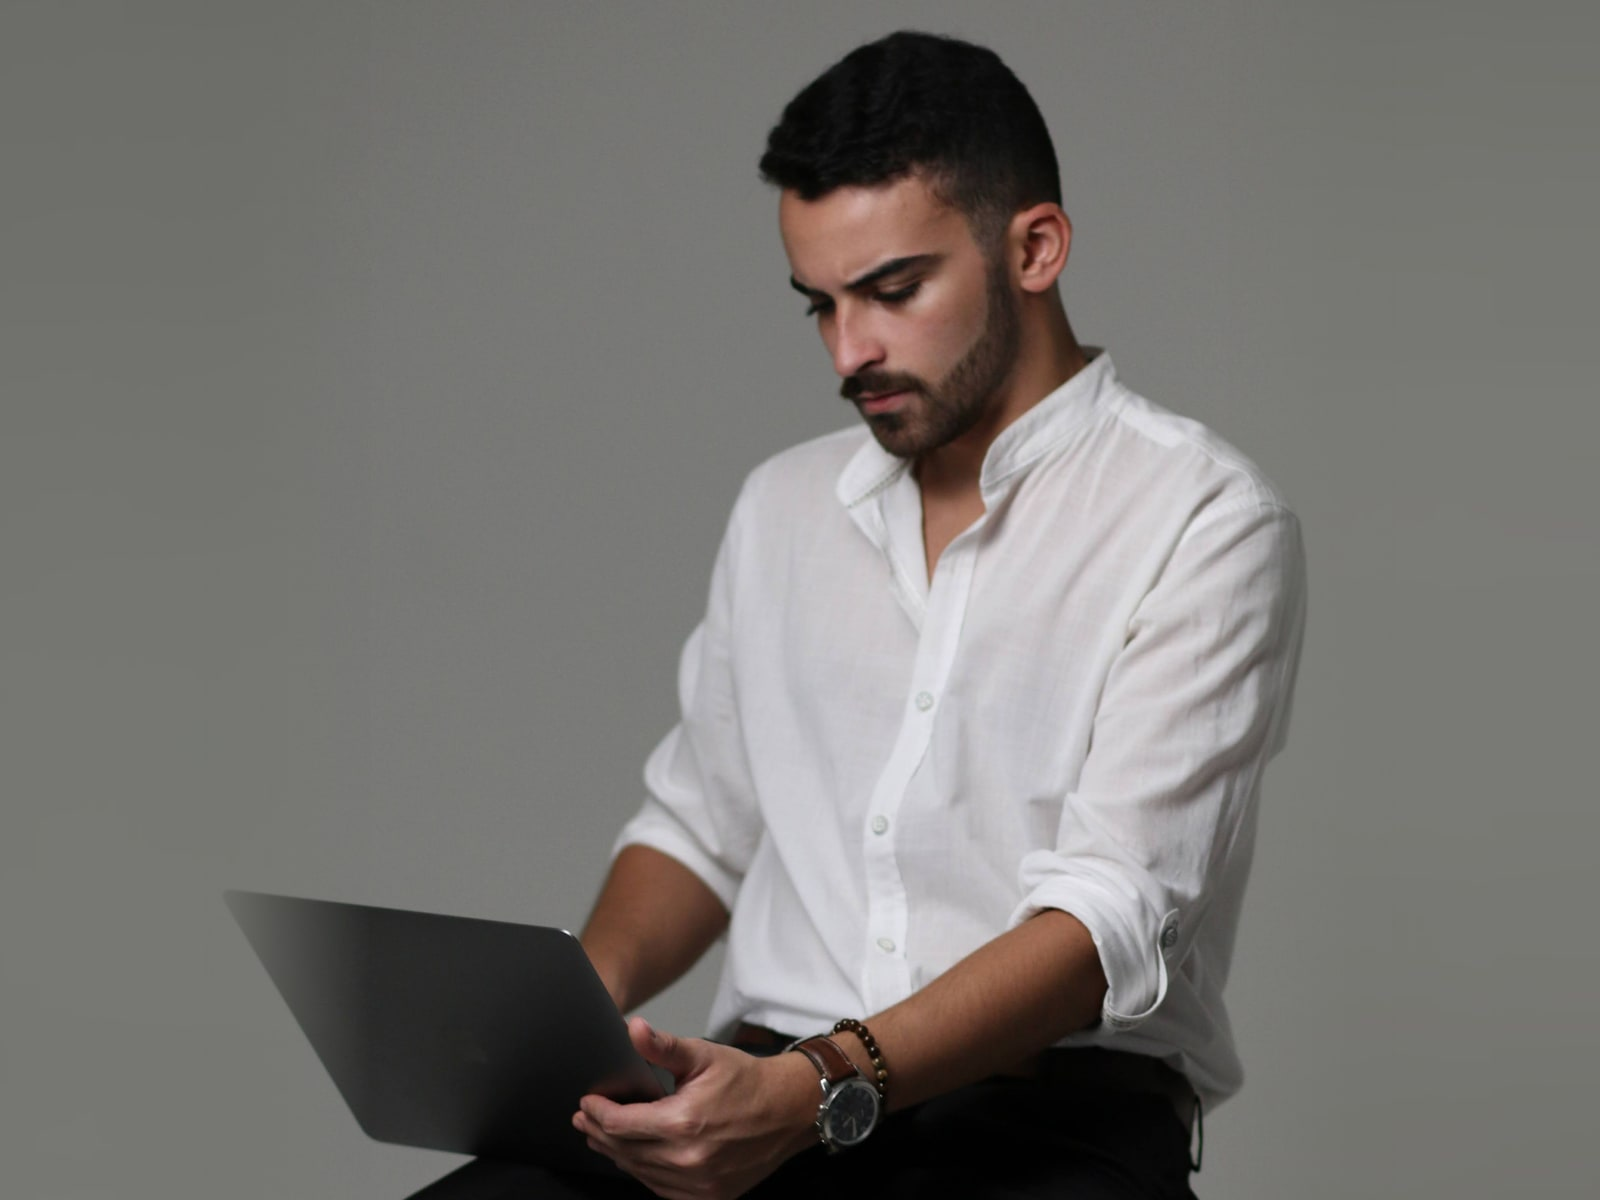
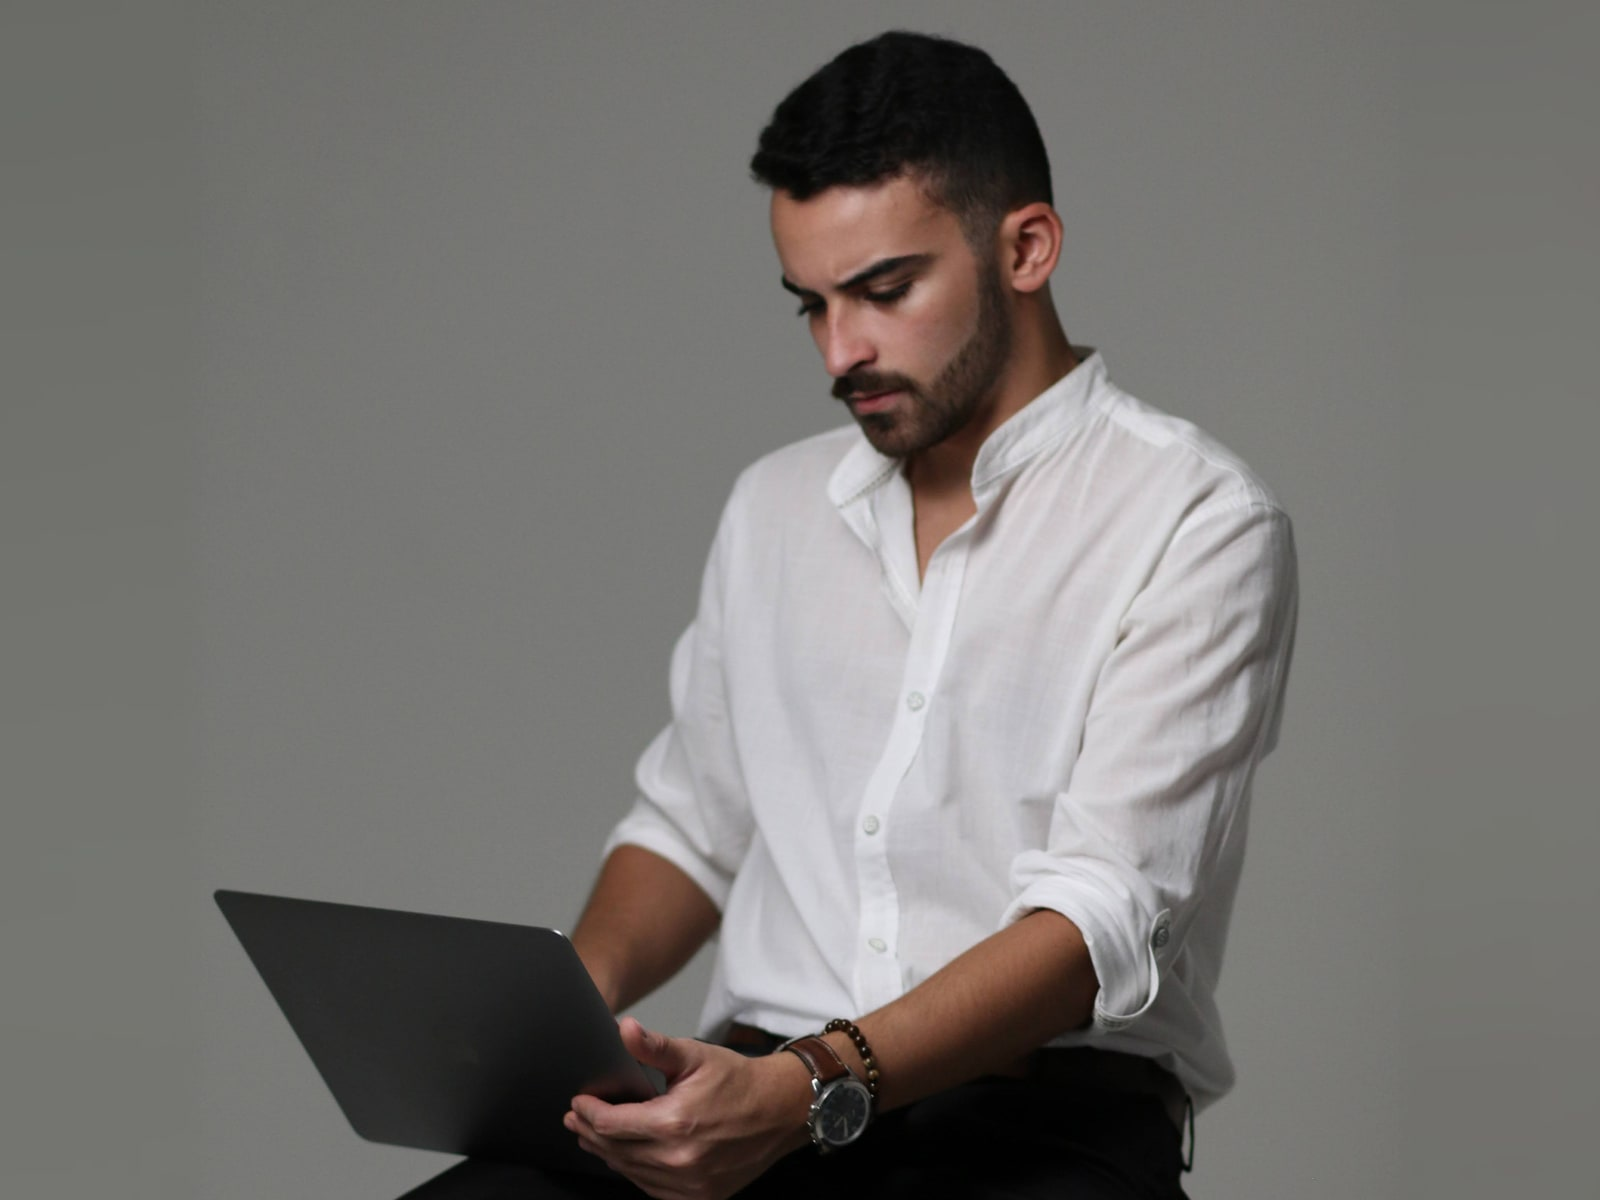
seo: imagens largas com o notebook inteiro, sem sumir no esmaecimento das laterais

diff --git a/scripts/google-images.ts b/scripts/google-images.ts
@@ -21,6 +21,9 @@ const FACE = { left: 1300, top: 120, width: 1300, height: 1300 }
 /** Da cabeça ao notebook e às mãos (coordenadas da foto original). As proporções mais largas completam as laterais com o fundo liso. */
 const PHOTO = { left: 60, top: 130, width: 3100, height: 3100 }
 
+/** Mesma altura, mas com a largura toda da foto: o notebook fica longe da borda e não some no esmaecimento das proporções largas. */
+const WIDE_PHOTO = { left: 0, top: 130, width: 3265, height: 3100 }
+
 const FRAMES = {
   'google-1x1.jpg': { aspect: 1, output: { width: 1200, height: 1200 } },
   'google-4x3.jpg': { aspect: 4 / 3, output: { width: 1600, height: 1200 } },
@@ -56,6 +59,7 @@ images.forEach((image, index) => {
 writeFileSync(join(publicDirectory, 'favicon.ico'), Buffer.concat([header, ...images]))
 
 const photo = await sharp(source).rotate().extract(PHOTO).toBuffer()
+const widePhoto = await sharp(source).rotate().extract(WIDE_PHOTO).toBuffer()
 
 /**
  * Proporções mais largas que a foto: cada lateral vem da faixa de fundo liso da borda correspondente da foto,
@@ -64,23 +68,23 @@ const photo = await sharp(source).rotate().extract(PHOTO).toBuffer()
 const widen = async ({ width, height }: { width: number; height: number }): Promise<Buffer> => {
   const half = Math.ceil(width / 2)
   const strip = (left: number) =>
-    sharp(photo).extract({ left, top: 0, width: 24, height: PHOTO.height }).resize(half, height, { fit: 'fill' }).blur(24).toBuffer()
+    sharp(widePhoto).extract({ left, top: 0, width: 24, height: WIDE_PHOTO.height }).resize(half, height, { fit: 'fill' }).blur(24).toBuffer()
   const background = await sharp({ create: { width, height, channels: 3, background: { r: 120, g: 120, b: 120 } } })
     .composite([
       { input: await strip(0), left: 0, top: 0 },
-      { input: await strip(PHOTO.width - 24), left: width - half, top: 0 },
+      { input: await strip(WIDE_PHOTO.width - 24), left: width - half, top: 0 },
     ])
     .png()
     .toBuffer()
-  const foregroundWidth = Math.round(height * (PHOTO.width / PHOTO.height))
-  const feather = (foregroundWidth * 0.14) / foregroundWidth
+  const foregroundWidth = Math.round(height * (WIDE_PHOTO.width / WIDE_PHOTO.height))
+  const feather = 0.025
   const mask = Buffer.from(
     `<svg width="${foregroundWidth}" height="${height}" xmlns="http://www.w3.org/2000/svg"><defs><linearGradient id="fade" x1="0" x2="1" y1="0" y2="0">` +
       `<stop offset="0" stop-color="#fff" stop-opacity="0"/><stop offset="${feather}" stop-color="#fff" stop-opacity="1"/>` +
       `<stop offset="${1 - feather}" stop-color="#fff" stop-opacity="1"/><stop offset="1" stop-color="#fff" stop-opacity="0"/></linearGradient></defs>` +
       `<rect width="100%" height="100%" fill="url(#fade)"/></svg>`,
   )
-  const foreground = await sharp(photo)
+  const foreground = await sharp(widePhoto)
     .resize(foregroundWidth, height)
     .composite([{ input: mask, blend: 'dest-in' }])
     .png()
